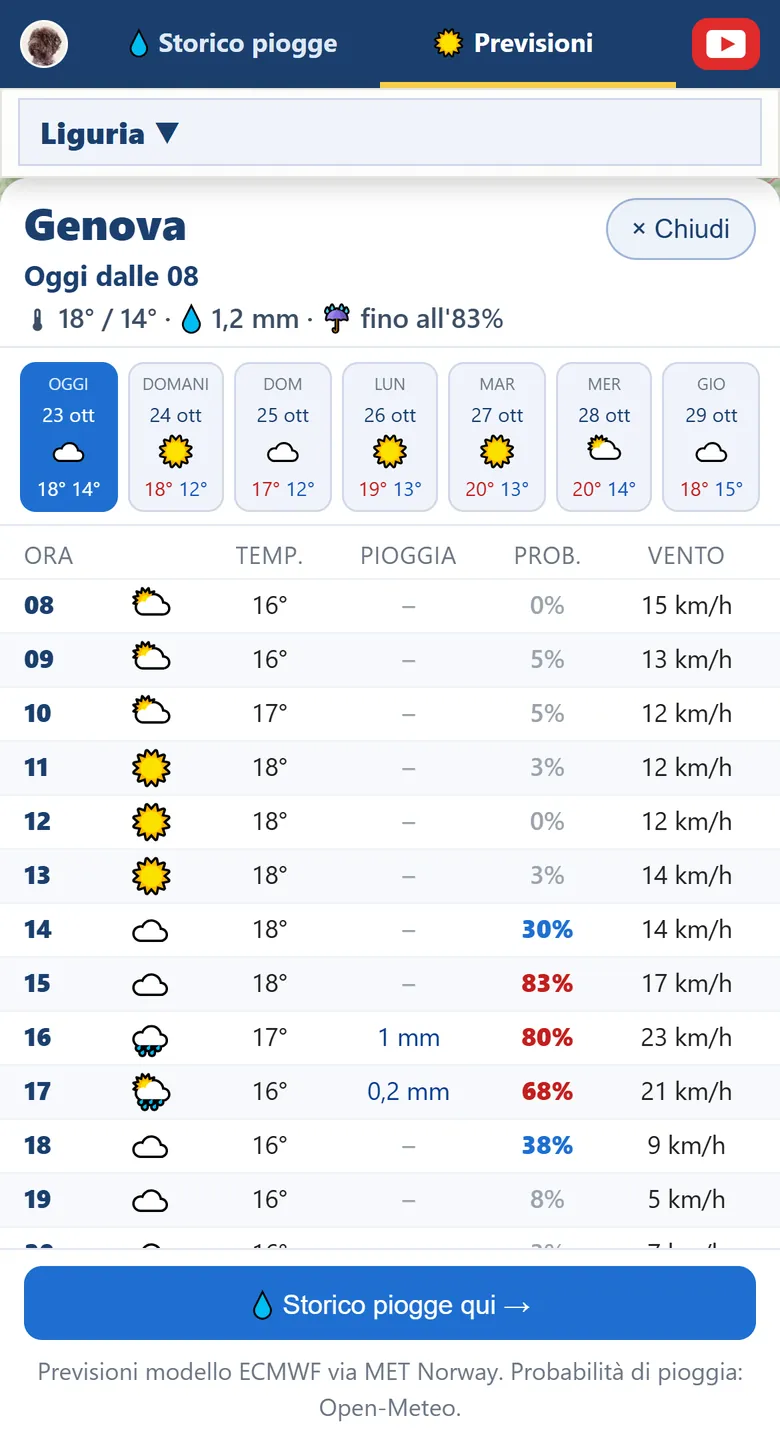
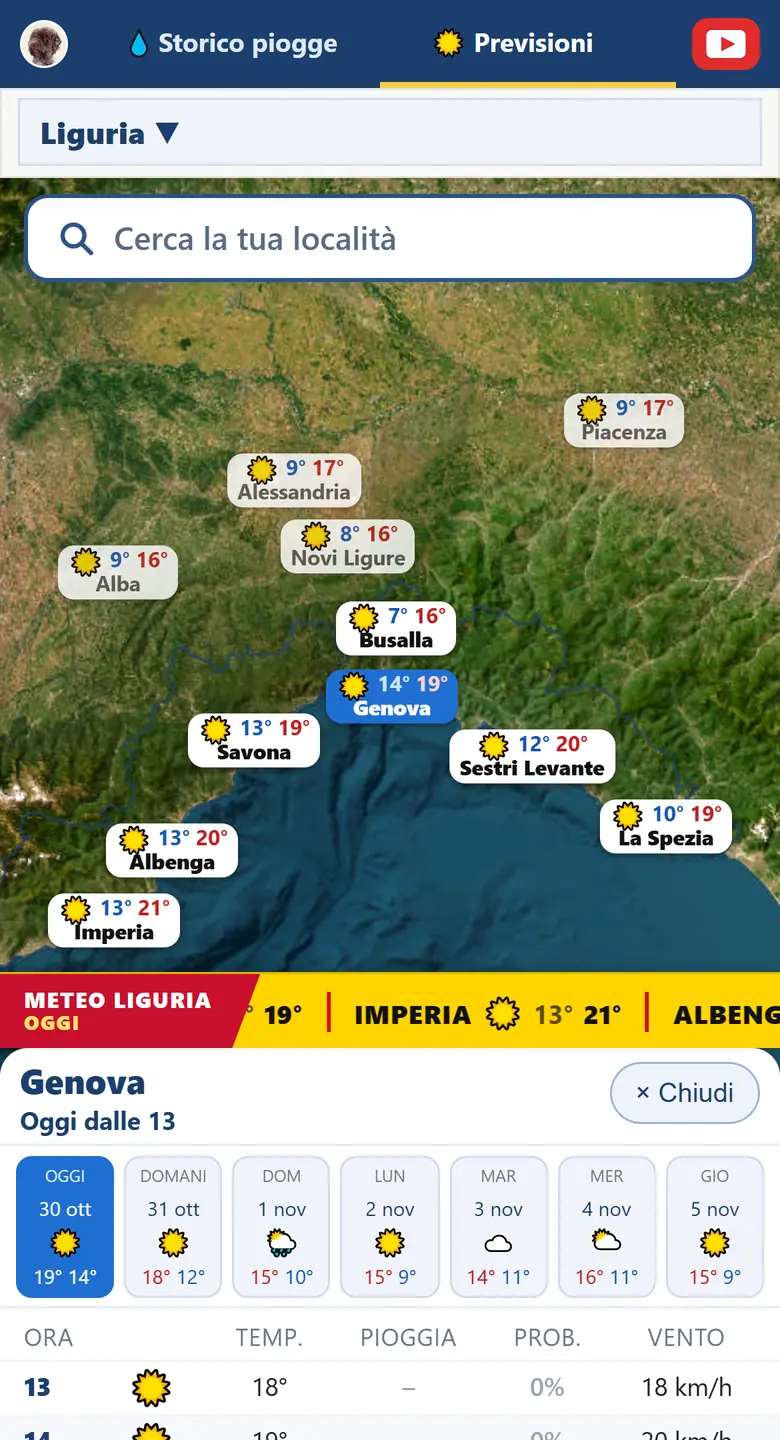
Home: le foto delle previsioni con la grafica nuova (satellite)
Al computer l'Italia col satellite, le icone e la fascia gialla; al telefono
la Liguria con le etichette e la scheda di Genova. Scattate dal sito vero
con scatta-previsioni-nuove.js del banco; descrizioni aggiornate.

diff --git a/index.html b/index.html
@@ -551,17 +551,18 @@ footer .copy { margin-top: 24px; padding-top: 16px; border-top: 1px solid var(--
     <p class="lead sub">Il tempo dei prossimi sette giorni, ora per ora: temperatura, pioggia, probabilità e vento. E la diretta radar della pioggia che sta cadendo adesso.</p>
     <p class="lead apri"><a href="https://precipitazioni.avventuremicologiche.it/previsioni/" target="_blank" rel="noopener">Apri le previsioni</a> · <a href="https://precipitazioni.avventuremicologiche.it/?r=lombardia,veneto,emilia&amp;radar=ora" target="_blank" rel="noopener">Apri la diretta radar</a></p>
   </div>
-  <!-- 23/10: le previsioni vere della mappa (scatto a 2880 px della mappa in locale, previsioni chieste al sito vero),
-       zoom 9 con Liguria e Piemonte e la scheda di Genova aperta: la tabella dei sette giorni e delle ore. Avvicinandosi
-       non compaiono altre localita' (sono i capoluoghi), anzi se ne vedono meno. -->
+  <!-- 30/10/2026: le previsioni con la grafica nuova (vista a etichette col satellite, in prod dal 30/10), scattate dal
+       sito vero con scatta-previsioni-nuove.js del banco: al computer l'Italia col satellite, le icone e la fascia gialla
+       che scorre; al telefono la Liguria con le etichette e sotto la scheda di Genova. Prima (23/10): Liguria e Piemonte
+       sulla cartina, con la scheda di Genova a destra. -->
   <figure class="con-tel su dopo ritaglio">
     <picture>
-      <!-- al telefono la mappa com'e' sul telefono (scatto 390x720 a 3x) -->
+      <!-- al telefono la mappa com'e' sul telefono (scatto 390x844 a 3x, tenuti i primi 720 punti) -->
       <source media="(max-width: 734px)" srcset="immagini/home/tel-previsioni-780.webp 780w, immagini/home/tel-previsioni-1170.webp 1170w" sizes="calc(100vw - 24px)" width="1170" height="2160">
       <img src="immagini/home/previsioni-vera-1440.webp"
          srcset="immagini/home/previsioni-vera-1440.webp 1440w, immagini/home/previsioni-vera-2880.webp 2880w"
          sizes="(max-width: 734px) calc(100vw - 24px), min(1136px, calc(100vw - 44px))" width="2880" height="1800" loading="lazy" style="object-position: 72% 50%"
-         alt="Le previsioni come sono sul sito: Liguria e Piemonte con le icone del tempo e le temperature di tredici località, e a destra la scheda di Genova con i sette giorni e la tabella ora per ora di temperatura, pioggia, probabilità e vento.">
+         alt="Le previsioni come sono sul sito: l'Italia vista dal satellite con le icone del tempo sulle città, sole al nord e pioggia al sud, e in basso la fascia gialla che scorre con il nome, l'icona, la minima e la massima di ogni città.">
     </picture>
     <figcaption class="small">Le previsioni come sono sul sito: tocchi una località e hai i sette giorni, ora per ora.</figcaption>
   </figure>
